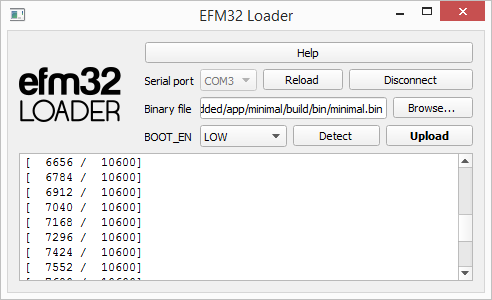
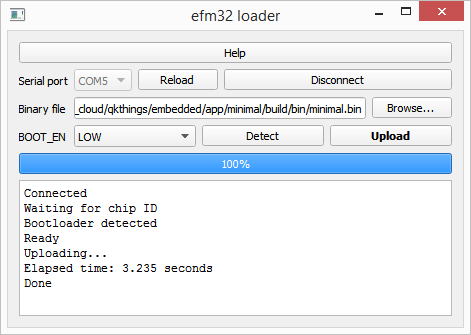
README and screenshot updated

Changed region(s): [[0.0, 0.0, 1.0, 0.99]]

diff --git a/README.md b/README.md
@@ -1,0 +1,22 @@
+# efm32 loader - a GUI and CLI utility for EFM32's bootloader
+
+A blog post about it: http://theramblingness.com/2015/07/16/a-gui-and-cli-utility-for-efm32s-uart-bootloader/
+
+### CLI mode usage
+<code>
+efm32_loader.exe <port_name> <bin_file> <boot_pol>
+</code>
+
+### GUI mode
+Don't pass any arguments and the GUI will show up.
+
+###Hardware connections:
+<code>
+TX  -- BOOT_RX (E11)
+RX  -- BOOT_TX (E10)
+DTR -- BOOT_EN (DBG_SWCLK)
+RTS -- RESET
+</code>
+
+### Other considerations:
+In order to prevent the bootloader from being overwritten, the linkerscript must be modified as described on application note AN0003
